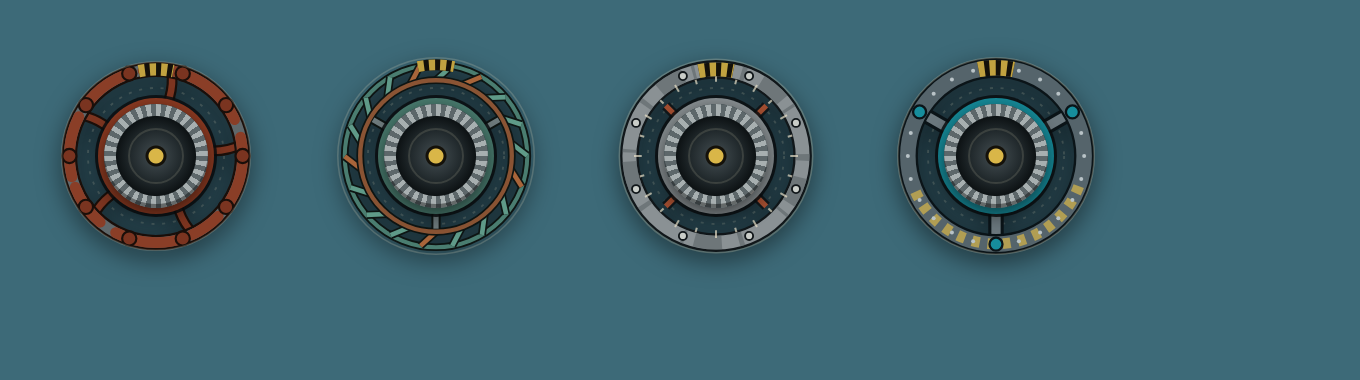
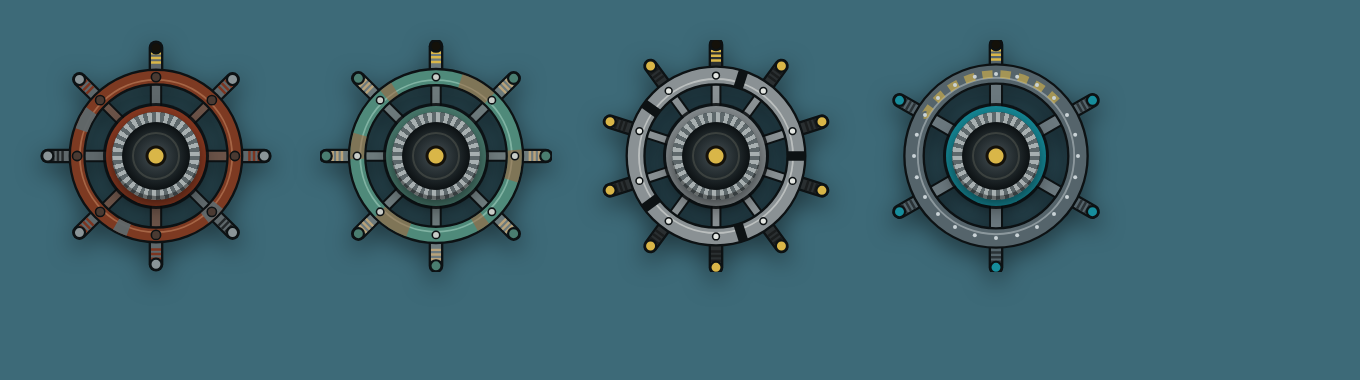
Helm: keep the classic ship's-wheel shape, rebuilt from salvage
Rim, spokes and grip handles stay; materials become rusted pipe, oxidised copper, bolted aluminium and riveted steel
with taped/rope/rubber grips and a hazard-yellow top grip. Thumb cap trimmed to 44 px.

Claude-Session: https://claude.ai/code/session_0186uXpWBBEtGigVym2VN4XB

Changed region(s): [[0.0309, 0.0868, 0.4015, 0.7237], [0.4324, 0.1158, 0.6176, 0.7237], [0.6485, 0.0868, 0.8338, 0.7237]]

diff --git a/src/ui/helmWheel.ts b/src/ui/helmWheel.ts
@@ -1,85 +1,91 @@
-// The steering control matches the boat you're sailing. Each one is salvaged machinery, not a ship's wheel
-// (art-direction pass: Waterworld + Mad Max, never pirate brass and timber). All four are drawn in the same 150×150
-// frame so the stick, knob and turning code don't change; only the look does. The rims are thinner than the old
-// wheels and the middle is open, so the control reads at a glance without covering the world.
-// Palette: docs/brand/SCRAP-TIDE-brand.md.
+// The helm wheel matches the boat you're sailing. It keeps the classic, instantly readable ship's-wheel shape (a rim,
+// spokes running through it and grip handles standing proud of it) but every wheel is rebuilt from salvage, not
+// timber and brass (art-direction pass: Waterworld + Mad Max). All four are drawn in the same 150×150 frame so the
+// stick, knob and turning code don't change; only the look does. Palette: docs/brand/SCRAP-TIDE-brand.md.
 //
-//   dinghy    Patchwork Skiff: a gate-valve handwheel off a drowned pumping station, red oxide over bare steel
-//   sloop     Scrap Trimaran: a turbine housing ring, stator vanes in oxidised copper
-//   brig      Salt Brig: a heavy aluminium direction dial, bolted bezel and stamped degree ticks
-//   ironwake  Ironwake Expedition Cat: a riveted steel ring with a hazard-striped band and sea-glass indicators
+//   dinghy    Patchwork Skiff: rusted pipe rim with welded patch bands, mismatched rebar spokes, tape-wrapped grips
+//   sloop     Scrap Trimaran: an oxidised copper pipe rim, steel spokes, rope-whipped grips
+//   brig      Salt Brig: a heavy aluminium rim bolted in sections, ten spokes, rubber grips with hazard-yellow tips
+//   ironwake  Ironwake Expedition Cat: a riveted steel rim with a hazard band, six spokes, sea-glass grip caps
 //
-// Every dial carries a faded hazard tab at 12 o'clock, so you can see the control turn with your thumb.
+// The top spoke's grip is painted hazard yellow on every wheel, the way a real helm marks "rudder amidships", so you can
+// see the wheel turn under your thumb.
 import type { VesselId } from '../data/ship';
 
 const C = 75;
 const f = (n: number) => n.toFixed(1);
 const at = (a: number, r: number) => [C + Math.cos(a) * r, C + Math.sin(a) * r] as const;
+const TOP = -Math.PI / 2;
 
-function ring(n: number, draw: (i: number, a: number) => string, offset = 0) {
+function spokes(n: number, draw: (i: number, a: number) => string) {
   let s = '';
-  for (let i = 0; i < n; i++) s += draw(i, (i / n) * Math.PI * 2 - Math.PI / 2 + offset);
+  for (let i = 0; i < n; i++) s += draw(i, (i / n) * Math.PI * 2 + TOP);
   return s;
 }
 
-/** Arc path from angle a0 to a1 at radius r (angles in radians, 0 = 3 o'clock). */
-function arc(r: number, a0: number, a1: number) {
-  const [x0, y0] = at(a0, r);
-  const [x1, y1] = at(a1, r);
-  return `M${f(x0)} ${f(y0)}A${r} ${r} 0 ${a1 - a0 > Math.PI ? 1 : 0} 1 ${f(x1)} ${f(y1)}`;
+/** A spoke from the hub out through the rim (two strokes: dark edge, metal face). */
+function spoke(a: number, r0: number, r1: number, face: string, w: number, edge = '#0d1214') {
+  const [x0, y0] = at(a, r0), [x1, y1] = at(a, r1);
+  const l = `x1="${f(x0)}" y1="${f(y0)}" x2="${f(x1)}" y2="${f(y1)}"`;
+  return `<line ${l} stroke="${edge}" stroke-width="${w + 2.6}"/><line ${l} stroke="${face}" stroke-width="${w}"/>`;
 }
 
-/** The forward marker: a short black/yellow striped tab at 12 o'clock, a little worn. */
-function hazardTab(r: number, w = 9) {
-  const top = -Math.PI / 2;
-  return `<path d="${arc(r, top - 0.2, top + 0.2)}" stroke="#14110a" stroke-width="${w}" stroke-linecap="butt" fill="none"/>`
-    + `<path d="${arc(r, top - 0.2, top + 0.2)}" stroke="#d9b648" stroke-width="${w}" stroke-dasharray="4 3.2" stroke-linecap="butt" fill="none" opacity=".88"/>`;
+/** A grip handle outside the rim: a stub of pipe with a wrapped grip and an end cap. */
+function grip(a: number, r0: number, r1: number, fill: string, wrap: string, cap: string, edge = '#0d1214') {
+  const [x0, y0] = at(a, r0), [x1, y1] = at(a, r1);
+  const [xa, ya] = at(a, r0 + (r1 - r0) * 0.35), [xb, yb] = at(a, r1 - 1.5);
+  const [xc, yc] = at(a, r1);
+  return `<line x1="${f(x0)}" y1="${f(y0)}" x2="${f(x1)}" y2="${f(y1)}" stroke="${edge}" stroke-width="9.5" stroke-linecap="round"/>`
+    + `<line x1="${f(x0)}" y1="${f(y0)}" x2="${f(x1)}" y2="${f(y1)}" stroke="${fill}" stroke-width="6.5" stroke-linecap="round"/>`
+    + `<line x1="${f(xa)}" y1="${f(ya)}" x2="${f(xb)}" y2="${f(yb)}" stroke="${wrap}" stroke-width="6.5" stroke-dasharray="1.6 1.4"/>`
+    + `<circle cx="${f(xc)}" cy="${f(yc)}" r="3.6" fill="${cap}" stroke="${edge}" stroke-width="1.4"/>`;
 }
 
-/** The faint track the thumb cap travels in (it shows where to drag). */
-const track = `<circle cx="75" cy="75" r="44" fill="none" stroke="rgba(236,224,194,.16)" stroke-width="1.2" stroke-dasharray="2 5"/>`;
+/** The rim: a pipe ring (dark edge, metal face, a thin highlight). */
+function rim(r: number, w: number, face: string, hi: string, edge = '#0d1214') {
+  return `<circle cx="75" cy="75" r="${r}" stroke="${edge}" stroke-width="${w + 3}"/>`
+    + `<circle cx="75" cy="75" r="${r}" stroke="${face}" stroke-width="${w}"/>`
+    + `<circle cx="75" cy="75" r="${r - w * 0.22}" stroke="${hi}" stroke-width="1.2" opacity=".55"/>`;
+}
 
-const SKIFF = () => `<svg class="wheel" data-wheel="dinghy" viewBox="0 0 150 150"><circle cx="75" cy="75" r="60" fill="rgba(8,18,22,.34)"/>${track}
-<g fill="none" stroke-linecap="round">
-${ring(5, (_i, a) => { const [x0, y0] = at(a, 20), [x1, y1] = at(a + 0.32, 40), [x2, y2] = at(a + 0.18, 56); return `<path d="M${f(x0)} ${f(y0)}Q${f(x1)} ${f(y1)} ${f(x2)} ${f(y2)}" stroke="#1a0f0a" stroke-width="7"/><path d="M${f(x0)} ${f(y0)}Q${f(x1)} ${f(y1)} ${f(x2)} ${f(y2)}" stroke="#7d3520" stroke-width="4.2"/>`; })}
-<circle cx="75" cy="75" r="56" stroke="#1a0f0a" stroke-width="10"/><circle cx="75" cy="75" r="56" stroke="#5f686b" stroke-width="7"/>
-<circle cx="75" cy="75" r="56" stroke="#8e3b22" stroke-width="7" stroke-dasharray="34 9 21 5 46 12 28 7 40 10" opacity=".92"/>
-${ring(10, (_i, a) => `<circle cx="${f(at(a, 56)[0])}" cy="${f(at(a, 56)[1])}" r="4.6" fill="#7a3420" stroke="#1a0f0a" stroke-width="1.4"/>`, Math.PI / 10)}
-<circle cx="75" cy="75" r="61" stroke="rgba(236,224,194,.22)" stroke-width="1"/>
-${hazardTab(56, 8)}</g></svg>`;
+/** Hub plate behind the thumb cap. */
+const hub = (fill: string) => `<circle cx="75" cy="75" r="19" fill="${fill}" stroke="#0d1214" stroke-width="2.5"/>`;
 
-const TRIMARAN = () => `<svg class="wheel" data-wheel="sloop" viewBox="0 0 150 150"><circle cx="75" cy="75" r="61" fill="rgba(8,18,22,.34)"/>${track}
-<g fill="none">
-<circle cx="75" cy="75" r="59" stroke="#0e1513" stroke-width="5"/><circle cx="75" cy="75" r="59" stroke="#4a7d70" stroke-width="2.6"/>
-${ring(18, (_i, a) => { const [x0, y0] = at(a, 49), [x1, y1] = at(a + 0.17, 59); return `<line x1="${f(x0)}" y1="${f(y0)}" x2="${f(x1)}" y2="${f(y1)}" stroke="#0e1513" stroke-width="5.2"/><line x1="${f(x0)}" y1="${f(y0)}" x2="${f(x1)}" y2="${f(y1)}" stroke="${_i % 4 === 1 ? '#a8653a' : '#5f9a88'}" stroke-width="3"/>`; })}
-<circle cx="75" cy="75" r="49" stroke="#0e1513" stroke-width="5"/><circle cx="75" cy="75" r="49" stroke="#8a5434" stroke-width="2.8"/>
-${ring(3, (_i, a) => { const [x0, y0] = at(a, 20), [x1, y1] = at(a, 47); return `<line x1="${f(x0)}" y1="${f(y0)}" x2="${f(x1)}" y2="${f(y1)}" stroke="#0e1513" stroke-width="6"/><line x1="${f(x0)}" y1="${f(y0)}" x2="${f(x1)}" y2="${f(y1)}" stroke="#6d7a7c" stroke-width="3.4"/>`; }, Math.PI / 3)}
-<circle cx="75" cy="75" r="63.5" stroke="rgba(236,224,194,.2)" stroke-width="1"/>
-${hazardTab(59, 7)}</g></svg>`;
+const SKIFF = () => `<svg class="wheel" data-wheel="dinghy" viewBox="0 0 150 150"><circle cx="75" cy="75" r="56" fill="rgba(8,18,22,.32)"/>
+${spokes(8, (i, a) => grip(a, 54, 70, '#5f686b', i === 0 ? '#d9b648' : i % 3 ? '#7d3520' : '#24282a', i === 0 ? '#14110a' : '#8a9497'))}
+<g fill="none">${spokes(8, (i, a) => spoke(a, 15, 54, i % 3 ? '#6b5348' : '#5f686b', i % 2 ? 4.2 : 5.4))}
+${rim(51, 8, '#7d3a22', '#c98a64')}
+<circle cx="75" cy="75" r="51" stroke="#5f686b" stroke-width="8" stroke-dasharray="0 34 12 52 9 70 14 200" opacity=".95"/>
+${spokes(8, (_i, a) => `<circle cx="${f(at(a, 51)[0])}" cy="${f(at(a, 51)[1])}" r="3" fill="#4a3a32" stroke="#0d1214" stroke-width="1"/>`)}</g>
+${hub('#3a3230')}</svg>`;
 
-const BRIG = () => `<svg class="wheel" data-wheel="brig" viewBox="0 0 150 150"><circle cx="75" cy="75" r="61" fill="rgba(8,18,22,.36)"/>${track}
-<g fill="none">
-<circle cx="75" cy="75" r="56" stroke="#11171a" stroke-width="12"/><circle cx="75" cy="75" r="56" stroke="#8a9194" stroke-width="9"/>
-<circle cx="75" cy="75" r="56" stroke="#5c6467" stroke-width="9" stroke-dasharray="3 11 18 6 2 30" opacity=".6"/>
-${ring(24, (i, a) => { const [x0, y0] = at(a, 48), [x1, y1] = at(a, i % 2 ? 51 : 53); return `<line x1="${f(x0)}" y1="${f(y0)}" x2="${f(x1)}" y2="${f(y1)}" stroke="#e8e0c8" stroke-width="1.3" opacity=".7"/>`; })}
-${ring(8, (_i, a) => `<circle cx="${f(at(a, 56)[0])}" cy="${f(at(a, 56)[1])}" r="2.6" fill="#c9cdc8" stroke="#11171a" stroke-width="1.2"/>`, Math.PI / 8)}
-${ring(4, (_i, a) => { const [x0, y0] = at(a, 20), [x1, y1] = at(a, 46); return `<line x1="${f(x0)}" y1="${f(y0)}" x2="${f(x1)}" y2="${f(y1)}" stroke="#11171a" stroke-width="6.5"/><line x1="${f(x0)}" y1="${f(y0)}" x2="${f(x1)}" y2="${f(y1)}" stroke="#a04d30" stroke-width="3.4"/>`; }, Math.PI / 4)}
-<circle cx="75" cy="75" r="62.5" stroke="rgba(236,224,194,.24)" stroke-width="1"/>
-${hazardTab(56, 9)}</g></svg>`;
+const TRIMARAN = () => `<svg class="wheel" data-wheel="sloop" viewBox="0 0 150 150"><circle cx="75" cy="75" r="56" fill="rgba(8,18,22,.32)"/>
+${spokes(8, (i, a) => grip(a, 54, 71, '#6d7a7c', i === 0 ? '#d9b648' : '#b8a27a', i === 0 ? '#14110a' : '#4a7d70'))}
+<g fill="none">${spokes(8, (_i, a) => spoke(a, 15, 54, '#6d7a7c', 4.8))}
+${rim(51, 9, '#4f8a7a', '#a9d6c4')}
+<circle cx="75" cy="75" r="51" stroke="#a8653a" stroke-width="9" stroke-dasharray="16 30 8 44 22 38" opacity=".55"/>
+${spokes(8, (_i, a) => `<circle cx="${f(at(a, 51)[0])}" cy="${f(at(a, 51)[1])}" r="2.4" fill="#c9cdc8" stroke="#0d1214" stroke-width="1"/>`)}</g>
+${hub('#2e3f3a')}</svg>`;
 
-const IRONWAKE = () => `<svg class="wheel" data-wheel="ironwake" viewBox="0 0 150 150"><circle cx="75" cy="75" r="62" fill="rgba(8,18,22,.36)"/>${track}
-<g fill="none">
-${ring(3, (_i, a) => { const [x0, y0] = at(a, 20), [x1, y1] = at(a, 54); return `<line x1="${f(x0)}" y1="${f(y0)}" x2="${f(x1)}" y2="${f(y1)}" stroke="#0b1418" stroke-width="10"/><line x1="${f(x0)}" y1="${f(y0)}" x2="${f(x1)}" y2="${f(y1)}" stroke="#6b787e" stroke-width="6"/>`; }, Math.PI / 3)}
-<circle cx="75" cy="75" r="57" stroke="#0b1418" stroke-width="13"/><circle cx="75" cy="75" r="57" stroke="#55646b" stroke-width="10"/>
-<path d="${arc(57, 0.35, 2.79)}" stroke="#d9b648" stroke-width="7" stroke-dasharray="5 5" opacity=".7"/>
-${ring(24, (_i, a) => `<circle cx="${f(at(a, 57)[0])}" cy="${f(at(a, 57)[1])}" r="1.3" fill="#b9c3c7"/>`)}
-${ring(3, (_i, a) => `<circle cx="${f(at(a, 57)[0])}" cy="${f(at(a, 57)[1])}" r="4.2" fill="#168d9c" stroke="#0b1418" stroke-width="1.5"/>`, Math.PI / 3)}
-<circle cx="75" cy="75" r="63.5" stroke="rgba(236,224,194,.26)" stroke-width="1"/>
-${hazardTab(57, 10)}</g></svg>`;
+const BRIG = () => `<svg class="wheel" data-wheel="brig" viewBox="0 0 150 150"><circle cx="75" cy="75" r="57" fill="rgba(8,18,22,.34)"/>
+${spokes(10, (i, a) => grip(a, 55, 72, '#2a2f31', i === 0 ? '#d9b648' : '#1a1d1e', i === 0 ? '#14110a' : '#d9b648'))}
+<g fill="none">${spokes(10, (_i, a) => spoke(a, 15, 55, '#8a9194', 4.4))}
+${rim(52, 10, '#8a9194', '#e3e6e2')}
+${spokes(5, (_i, a) => { const [x0, y0] = at(a - 0.06, 52), [x1, y1] = at(a + 0.06, 52); return `<line x1="${f(x0)}" y1="${f(y0)}" x2="${f(x1)}" y2="${f(y1)}" stroke="#0d1214" stroke-width="12"/>`; }).replace(/<line/g, '<line transform="rotate(18 75 75)"')}
+${spokes(10, (_i, a) => `<circle cx="${f(at(a, 52)[0])}" cy="${f(at(a, 52)[1])}" r="2.2" fill="#e3e6e2" stroke="#0d1214" stroke-width="1"/>`)}</g>
+${hub('#4c5356')}</svg>`;
+
+const IRONWAKE = () => `<svg class="wheel" data-wheel="ironwake" viewBox="0 0 150 150"><circle cx="75" cy="75" r="58" fill="rgba(8,18,22,.34)"/>
+${spokes(6, (i, a) => grip(a, 56, 72, '#55646b', i === 0 ? '#d9b648' : '#2a3236', i === 0 ? '#14110a' : '#168d9c'))}
+<g fill="none">${spokes(6, (_i, a) => spoke(a, 15, 56, '#6b787e', 6.5))}
+${rim(53, 11, '#55646b', '#b9c3c7')}
+<circle cx="75" cy="75" r="53" stroke="#d9b648" stroke-width="5" stroke-dasharray="5 5" opacity=".6" transform="rotate(30 75 75)" pathLength="200" style="stroke-dasharray:0 100 4 3 4 3 4 3 4 3 4 3 4 3 4 3 4 3 4 60"/>
+${spokes(24, (_i, a) => `<circle cx="${f(at(a, 53)[0])}" cy="${f(at(a, 53)[1])}" r="1.3" fill="#c9d2d6"/>`)}</g>
+${hub('#2a3a42')}</svg>`;
 
 const WHEELS: Record<VesselId, () => string> = { dinghy: SKIFF, sloop: TRIMARAN, brig: BRIG, ironwake: IRONWAKE };
 
-/** The steering dial SVG for a vessel (the skiff's valve wheel for anything unknown). */
+/** The helm wheel SVG for a vessel (the skiff's scrap wheel for anything unknown). */
 export function wheelSVG(vessel: VesselId | string): string {
   return (WHEELS[vessel as VesselId] ?? SKIFF)();
 }

diff --git a/src/ui/styles.css b/src/ui/styles.css
@@ -191,7 +191,7 @@ button.chip:active { border-color: var(--line); color: var(--hazard); }
 .stick .wheel { position: absolute; inset: 0; transition: transform .05s; filter: drop-shadow(0 4px 6px rgba(0,0,0,.5)); }
 .stick .knob {
   /* a machined thumb cap: knurled steel collar round a rubber grip, with a worn hazard dot (art-direction pass) */
-  position: absolute; left: 50%; top: 50%; width: 52px; height: 52px; margin: -26px 0 0 -26px; border-radius: 50%;
+  position: absolute; left: 50%; top: 50%; width: 44px; height: 44px; margin: -22px 0 0 -22px; border-radius: 50%;
   --cap: #8e3b22;
   background:
     radial-gradient(circle closest-side, #d9b648 0 3.5px, #14110a 4px 5px, transparent 5.5px),
@@ -202,7 +202,7 @@ button.chip:active { border-color: var(--line); color: var(--hazard); }
 .stick[data-vessel="sloop"] .knob { --cap: #4a7d70; }
 .stick[data-vessel="brig"] .knob { --cap: #8a9194; }
 .stick[data-vessel="ironwake"] .knob { --cap: #168d9c; }
-.stick .knob::after { content: ''; position: absolute; inset: 12px; border-radius: 50%; border: 1px solid rgba(236,224,194,.14); }
+.stick .knob::after { content: ''; position: absolute; inset: 10px; border-radius: 50%; border: 1px solid rgba(236,224,194,.14); }
 .stick .stick-label { position: absolute; bottom: -17px; width: 100%; text-align: center; font-family: var(--display); font-size: 12px; font-weight: 400; color: var(--bone-2); letter-spacing: 3px; text-shadow: 0 1px 3px #000, 0 0 6px rgba(0,0,0,.7); }
 
 /* action plates: Sun Gold enamel on a brass bezel (HUD facelift: no hazard stripes) */

diff --git a/docs/art-pass/README.md b/docs/art-pass/README.md
@@ -14,7 +14,7 @@ dependencies, no new assets to download, no new lights or render passes.
 | Water at night | Moon glint ~0.3 of the sun's, ambient floor 0.3: the sea went flat | Moon glint floor (0.62 × night), ambient floor 0.42 | `src/game/game.ts` `applyAtmosphere` |
 | Character visibility on foot | The boat's low-light fill was switched off ashore | The same (already-existing) point light becomes the captain's work lamp ashore: a small warm pool, 16 m reach, only when the sun is low | `src/game/game.ts` `updateShipFill` |
 | On-foot camera | 10 m, pitch ≥ 0.35 rad looking straight at the captain: half the portrait screen was bare dark sand | 8.6 m, pitch 0.68 × the player's pitch (0.22–0.8), look-at 3.2 m ahead and 1.15 m up along the (already smoothed) camera yaw: captain in the lower third, horizon and settlements in frame | `src/game/game.ts` `updateCamera` |
-| Steering control | Ship's wheels: wooden spokes, turned handles, brass bosses | Salvaged machinery per vessel: Skiff gate-valve handwheel (red oxide over bare steel), Trimaran turbine housing (oxidised copper vanes), Brig aluminium direction dial (bolted bezel, degree ticks), Ironwake riveted ring with a hazard band and sea-glass indicators. Each has a hazard tab at 12 o'clock so the turn is visible, an open centre, thinner rims and a knurled steel thumb cap (52 px, was a 58 px brass boss). Same 150×150 frame, same pointer code, same 50 px travel | `src/ui/helmWheel.ts`, `.stick .knob` in `src/ui/styles.css` |
+| Steering control | Ship's wheels in honey timber and dark oak with turned handles and brass bosses | Still the classic ship's wheel (rim, spokes through it, grip handles standing proud), rebuilt from salvage per vessel: Skiff rusted pipe rim with welded patch bands, mismatched spokes and tape-wrapped grips; Trimaran oxidised copper pipe rim with rope-whipped grips; Brig aluminium rim bolted in sections, rubber grips with hazard-yellow tips; Ironwake riveted steel rim with a hazard band and sea-glass grip caps. The top grip is hazard yellow on every wheel ("amidships" mark), so the turn is visible. The brass boss is now a knurled steel thumb cap (44 px). Same 150×150 frame, same pointer code, same 50 px travel | `src/ui/helmWheel.ts`, `.stick .knob` in `src/ui/styles.css` |
 | HUD | Rounded enamel plates with sea-glass glow borders; parchment objective slip | Riveted, scratched steel plates (CSS gradients only) with squared corners and a faded hazard-stripe bracket; objective is a sun-bleached painted tag with an oxide edge; radar in a bolted oxide bezel with a stencilled label; menu tray under a hazard-stripe header; squarer stamped action plates. Layout, sizes and safe-area insets unchanged | `src/ui/styles.css` |
 | Narrow phones (320 px) | Steering dial overlapped the action plate (pre-existing, measured on the base commit) | Dial 112 px, slimmer instruments, action column reserves the helm's real width | `src/ui/styles.css` |
 | Pirate leftovers | "Tattered Jolly Flag" | "Tattered Trawler Flag" (display name only; item id unchanged for saves) | `src/data/items.ts` |
@@ -23,7 +23,7 @@ dependencies, no new assets to download, no new lights or render passes.
 
 `before/` and `after/`: iPhone 17 viewport (402×874) in headless Chromium with SwiftShader, not a real device.
 `foot-*` = on foot at Turtle Atoll, `sail-*` = the skiff off Driftholm; noon (0.5), dusk (0.78), night (0.95).
-`hud-*` = the HUD at sea, the open Menu tray and the 320 px narrow phone. `dials.png` = the four steering controls.
+`hud-*` = the HUD at sea, the open Menu tray and the 320 px narrow phone. `dials.png` = the four helm wheels (Skiff, Trimaran, Brig, Ironwake).
 
 ## Tradeoffs
 

diff --git a/docs/brand/SCRAP-TIDE-brand.md b/docs/brand/SCRAP-TIDE-brand.md
@@ -54,9 +54,10 @@ squared corners and stencilled labels; the objective is a sun-bleached painted t
 the radar sits in a bolted bezel. Primary actions are stamped Sun Gold plates; panels are bleached-sand journal pages
 under a steel header strip. Stencil for names, condensed grotesk for labels, mono for readouts.
 
-The steering control is salvaged machinery, one per vessel (gate-valve handwheel, turbine housing, aluminium direction
-dial, riveted hazard ring), each with a hazard tab at 12 o'clock and a knurled thumb cap. Never a wooden ship's wheel,
-brass bosses, Jolly Roger, colonial costume or treasure-map parchment. See `docs/art-pass/`.
+The helm keeps the classic ship's-wheel shape (rim, spokes, grip handles) but every wheel is built from salvage: pipe,
+copper, bolted aluminium or riveted steel, with taped, rope-whipped or rubber grips and a hazard-yellow top grip, and a
+knurled steel thumb cap instead of a brass boss. Never timber-and-brass, Jolly Roger, colonial costume or treasure-map
+parchment. See `docs/art-pass/`.
 
 ## Naming
 
